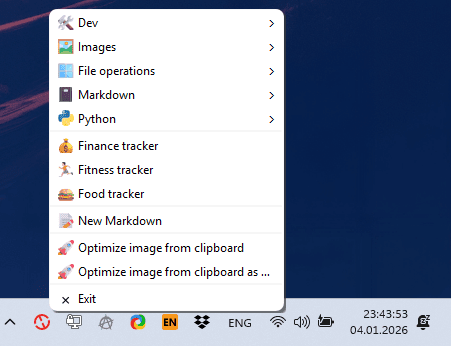
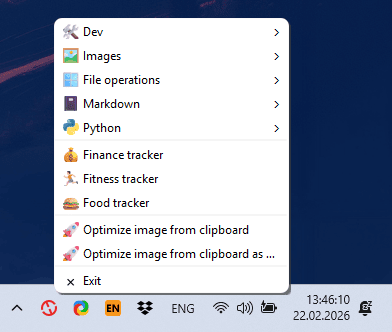
🚚 Move OnNewMarkdown in main menu

Changed region(s): [[0.0, 0.0, 1.0, 0.9639]]

diff --git a/src/harrix_swiss_knife/main.py b/src/harrix_swiss_knife/main.py
@@ -84,6 +84,8 @@ class MainMenu(hsk.main_menu_base.MainMenuBase):
                 "Markdown",
                 "📓",
                 [
+                    hsk.md.OnNewMarkdown,
+                    "-",
                     hsk.md.OnDecreaseHeadingLevelContent,
                     hsk.md.OnGetListMoviesBooks,
                     hsk.md.OnIncreaseHeadingLevelContent,
@@ -117,8 +119,6 @@ class MainMenu(hsk.main_menu_base.MainMenuBase):
             hsk.apps.OnFinance,
             hsk.apps.OnFitness,
             hsk.apps.OnFood,
-            "-",
-            hsk.md.OnNewMarkdown,
             "-",
             hsk.images.OnOptimizeClipboard,
             hsk.images.OnOptimizeClipboardDialog,

diff --git a/src/harrix_swiss_knife/actions/markdown.py b/src/harrix_swiss_knife/actions/markdown.py
@@ -928,6 +928,7 @@ class OnNewMarkdown(ActionBase):
 
     icon = "📝"
     title = "New Markdown"
+    bold_title = True
 
     _COMMANDS: ClassVar[list[tuple[str, str, str]]] = [
         ("✍", "New article", "_execute_new_article"),

diff --git a/docs/main.g.md b/docs/main.g.md
@@ -96,6 +96,8 @@ class MainMenu(hsk.main_menu_base.MainMenuBase):
                 "Markdown",
                 "📓",
                 [
+                    hsk.md.OnNewMarkdown,
+                    "-",
                     hsk.md.OnDecreaseHeadingLevelContent,
                     hsk.md.OnGetListMoviesBooks,
                     hsk.md.OnIncreaseHeadingLevelContent,
@@ -129,8 +131,6 @@ class MainMenu(hsk.main_menu_base.MainMenuBase):
             hsk.apps.OnFinance,
             hsk.apps.OnFitness,
             hsk.apps.OnFood,
-            "-",
-            hsk.md.OnNewMarkdown,
             "-",
             hsk.images.OnOptimizeClipboard,
             hsk.images.OnOptimizeClipboardDialog,
@@ -217,6 +217,8 @@ def __init__(self) -> None:
                 "Markdown",
                 "📓",
                 [
+                    hsk.md.OnNewMarkdown,
+                    "-",
                     hsk.md.OnDecreaseHeadingLevelContent,
                     hsk.md.OnGetListMoviesBooks,
                     hsk.md.OnIncreaseHeadingLevelContent,
@@ -250,8 +252,6 @@ def __init__(self) -> None:
             hsk.apps.OnFinance,
             hsk.apps.OnFitness,
             hsk.apps.OnFood,
-            "-",
-            hsk.md.OnNewMarkdown,
             "-",
             hsk.images.OnOptimizeClipboard,
             hsk.images.OnOptimizeClipboardDialog,

diff --git a/README.md b/README.md
@@ -80,6 +80,7 @@ _Figure 1: Screenshot_
   - ├ Tree view of a folder
   - ├ Tree view of a folder (ignore hidden folders)
 - **Markdown**
+  - 📝 ★ New Markdown
   - 🎬 Get a list of movies, books for web
   - 👈 Heading level: Decrease
   - 👉 Heading level: Increase
@@ -105,7 +106,6 @@ _Figure 1: Screenshot_
 - 💰 Finance tracker
 - 🏃🏻 Fitness tracker
 - 🍔 Food tracker
-- 📝 New Markdown
 - 🚀 Optimize image from clipboard
 - 🚀 Optimize image from clipboard as …
 - × Exit

diff --git a/docs/index.g.md b/docs/index.g.md
@@ -86,6 +86,7 @@ _Figure 1: Screenshot_
   - ├ Tree view of a folder
   - ├ Tree view of a folder (ignore hidden folders)
 - **Markdown**
+  - 📝 ★ New Markdown
   - 🎬 Get a list of movies, books for web
   - 👈 Heading level: Decrease
   - 👉 Heading level: Increase
@@ -111,7 +112,6 @@ _Figure 1: Screenshot_
 - 💰 Finance tracker
 - 🏃🏻 Fitness tracker
 - 🍔 Food tracker
-- 📝 New Markdown
 - 🚀 Optimize image from clipboard
 - 🚀 Optimize image from clipboard as …
 - × Exit

diff --git a/docs/actions/markdown.g.md b/docs/actions/markdown.g.md
@@ -2275,6 +2275,7 @@ class OnNewMarkdown(ActionBase):
 
     icon = "📝"
     title = "New Markdown"
+    bold_title = True
 
     _COMMANDS: ClassVar[list[tuple[str, str, str]]] = [
         ("✍", "New article", "_execute_new_article"),
